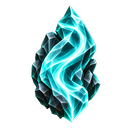
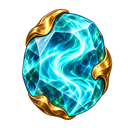
feat: 승인된 젬 이미지 13종 교체

diff --git a/design/gem_concepts/approved-20261017/build_runtime.py b/design/gem_concepts/approved-20261017/build_runtime.py
@@ -1,0 +1,41 @@
+#!/usr/bin/env python3
+"""Resize approved source art without cropping or changing the established gem IDs."""
+from pathlib import Path
+import argparse
+import hashlib
+import json
+from PIL import Image
+
+HERE = Path(__file__).resolve().parent
+ROOT = HERE.parents[2]
+OUTPUT = ROOT / 'assets/images/gems/simplified'
+
+def main():
+    parser = argparse.ArgumentParser()
+    parser.add_argument('--check', action='store_true', help='Compare generated pixels without writing files')
+    args = parser.parse_args()
+    records = []
+    for source in sorted((HERE / 'source').glob('*.png')):
+        image = Image.open(source)
+        assert image.mode == 'RGBA', source
+        assert image.getchannel('A').getextrema() == (0, 255), source
+        target = OUTPUT / source.name
+        assert target.is_file(), f'Unknown runtime gem: {source.stem}'
+        small = image.resize((128, 128), Image.Resampling.LANCZOS)
+        if args.check:
+            current = Image.open(target)
+            assert current.mode == 'RGBA' and current.size == (128, 128), target
+            assert current.tobytes() == small.tobytes(), f'Stale runtime art: {target}'
+        else:
+            small.save(target, optimize=True)
+        records.append({'id': source.stem, 'source': str(source.relative_to(ROOT)),
+                        'source_sha256': hashlib.sha256(source.read_bytes()).hexdigest(),
+                        'runtime': str(target.relative_to(ROOT)),
+                        'runtime_sha256': hashlib.sha256(target.read_bytes()).hexdigest(),
+                        'runtime_size': [128, 128]})
+    if not args.check:
+        (HERE / 'manifest.json').write_text(json.dumps({'resize': 'Pillow LANCZOS; full canvas; no crop', 'gems': records}, indent=2) + '\n')
+    print(f'PASS: {len(records)} approved gem sources match 128px runtime images')
+
+if __name__ == '__main__':
+    main()

diff --git a/docs/design_decisions/combat_ui.md b/docs/design_decisions/combat_ui.md
@@ -34,7 +34,7 @@
 | 전투 젬 보관함·일반 장착 | 보관함은 공용 젬 원본과 수량·이름·효과를 분리해 표시한다. 일반 장착의 초기 열린 소켓은 1개, 기본 최대는 3개이며 열린 1개와 잠긴 2개를 연결한다. 연구 수용량 밖의 소켓은 숨기고 최대 6개를 가로 한 줄로 지원한다. 잠긴 소켓 아래에는 실제 가격 태그를 미리 표시한다. 선택하면 해당 소켓 직하의 가격 태그가 가격·청록 해금 버튼을 함께 담은 일체형 금속 명패로 이어진다(해금 개선 시안 2번). 해금 명패는 전용 금속 이미지로 승인 시안의 두꺼운 베벨·사선 모서리·상하 면 비율을 보존하고 보유 젬 목록과의 여백을 좁게 유지한다. 기본 선택·해금은 같은 높이를 유지하며 긴 장착 설명만 필요한 최소 높이로 확장한다. 포탑 젬 장착 화면의 보유 젬 목록은 약 48px 정사각형 칸을 가로로 나열하고 부족한 칸은 빈 프레임으로 오른쪽 끝까지 채운다. 화면 폭에 맞춰 칸 수와 크기를 조절하며 젬 이미지는 34px로 유지한다. 별도 젬 보관함의 빈 상태는 변경하지 않는다. 개수 변화·골드 잔액 변화·해금 완료 문구와 별도 추가 버튼·`+`는 표시하지 않는다. 구매는 기존 가격·레벨·순차 조건을 따르며 성공 시 새로 열린 소켓을 선택한다. 보상 획득 중 교체 모달은 별도 흐름이다. | [승인 시안·최신 기준](../../design/combat_ui_concepts/2026-09-22/gem-ui-final/README.md) |
 | 포탑의 보유 젬 목록 | A안의 한 줄 인벤토리, 최소 패딩의 묶음, 이름·수량 유지. 가로 스크롤은 가능하되 스크롤바는 숨긴다. 전역 젬 메뉴와 혼동하지 않는다. | [실제 적용 화면](../../design/gem_inventory_concepts/implemented-a-live.png) |
 | 젬 소켓 | 금속·룬 소켓과 연결부 에셋 사용. 실제 해금 개수·비용은 게임 데이터 기준. 직관적인 소켓 아래 ‘홈 1·홈 2’ 중복 설명은 되살리지 않는다. | [에셋 기록](../../design/gem_sockets/README.md) |
-| 젬 아이콘 | 기능마다 다른 원석 형태·재질·색을 가진 투명 PNG 사용. 경량화기는 결정 탄환 묶음, 물리 피해는 너클 형태의 밝은 암석, 중화기 증폭은 굵고 뭉툭한 주황색 기둥 네 개가 엇물린 원석을 따른다. 현재는 형태·색·입체 광택을 유지하며 작은 균열과 파편을 큰 면으로 정리한 단순화 버전을 사용한다. 보상·인벤토리·소켓은 동일한 공용 에셋을 사용한다. | [현재 적용본·제작 원본·보존본 대응](../../design/gem_concepts/README.md) |
+| 젬 아이콘 | 기능마다 다른 형태·색의 보석과 절제된 금속 장식을 가진 투명 PNG를 사용한다. 2026-10-17 승인 개편본은 큰 결정 면과 입체 광택을 보존하며 128×128로 적용한다. 중화기는 짧고 두꺼운 주황색 포탄형 보석, 위력 증폭은 가늘고 긴 주황 다이아몬드, 연쇄는 검은 원석 바탕 없는 보라 S형 결정을 따른다. 개별 채택 원본과 매핑은 젬 이미지 기준에서 관리한다. 보상·인벤토리·소켓은 동일한 공용 에셋을 사용한다. | [현재 적용본·제작 원본·보존본 대응](../../design/gem_concepts/README.md) |
 | 보상 젬 장착·교체 | 승인 3번 수정 시안의 남청록 금속 모달을 따른다. 포탑 이름·레벨·장착/최대 개수와 새 젬 이름·효과를 표시하고, 기존 젬은 원본 소켓·연결부와 각 이름·효과로 비교한다. 열린 소켓만 최대 6개까지 3개씩 두 줄로 배치하며 미해금 소켓은 잠금 표시도 만들지 않는다. 슬롯 추가는 별도 선택 명패에 비용·보유 골드·기존 젬 유지 안내를 표시한다. 명패와 확정 버튼의 골드는 `G` 문자 대신 공용 골드 아이콘과 수치로 표시한다. 선택 명패 바로 아래에 확정 버튼을 두고, 별도 설명칸·반복 새 젬/잔여 골드 요약·청록 연결선은 만들지 않는다. 같은 포탑과 젬의 선택 전환에서 모달과 하단 버튼 위치를 유지한다. 소켓·추가 선택은 미리보기이며 별도 확정으로 처리한다. 슬롯 추가는 실제 비용·레벨·최대 개수 조건을 따르고 구매와 장착을 원자 처리하여 기존 젬을 유지한다. 교체된 젬은 보관함으로 반환하며, 닫기·포탑 다시 선택은 보상을 소비하지 않는다. 기존 보상·구매 카드 디자인은 유지한다. | [승인 3번 수정 시안](../../design/combat_ui_concepts/2026-10-01/gem-replacement/03-socket-anchored-v3.png), [기존 동작·검증](../../design/combat_ui_concepts/2026-09-22/modal-components/native/README.md#젬-교체-ux) |
 | 젬 보상 리롤 | 일반 웨이브 보상창의 우측 상단에 32px 순환 화살표 조작과 최소 44px 터치 영역을 둔다. 배지는 이번 도전의 남은 총 횟수, 아래는 무료 또는 승인한 민트·청록 젬 리셋권 아이콘 ×1을 표시한다. 도전 전체에서 무료 1회 후 리셋권으로 최대 2회 사용하며 파편 구매 선택창에는 표시하지 않는다. 기존 카드·파편·보관·장착·등장 연출을 유지한다. 리롤 확정·저장 성공 후 세 카드만 중앙 세로축 기준으로 약 0.36초 한 번(180도) 뒤집는다. 절제된 원근과 얇은 측면으로 회전을 표현하고, 90도 측면을 지나는 중간 지점에서 새 젬·문구로 교체해 곧바로 새 앞면을 펼친다. 별도 룬 뒷면 단계나 추가 회전은 없다. 카드 아래 안내·추가 설명의 최대 공간을 미리 확보해 클릭 전·처리 중·완료 후 카드 220px 높이와 행·모달·제목·리롤·파편 행동 위치를 고정한다. 연출 중 모든 선택을 잠근다. 최초 0.82초 등장과 겹쳐 재생하지 않고, 실패·결과 미확정은 이전 후보를 유지하며 결과 확인·저장 실패는 재시도를 제공한다. 상점·광고·다이아 가격 UI를 추가하지 않는다. | [승인 시안·아트·Godot 검증](../../design/gem_reroll/README.md) |
 | 젬 보상 등장 | 5배수 웨이브 클리어 보상은 승인 3번 ‘중앙에서 펼치기’를 따른다. 모달 프레임은 중앙을 기준으로 90% 크기·14px 아래에서 약 0.40초 동안 원래 크기·위치로 정착한다. 기존 카드가 중앙의 작은 묶음에서 좌우의 원래 자리로 펼쳐지고, 짧은 청록 룬 고리와 후행 파편·획득 젬 표시를 사용한다. 약 0.82초의 실제 시간으로 재생하며 최종 카드 외형·배치·정보와 선택·장착·교체 계약을 유지한다. 같은 보상의 화면 갱신·선택 취소와 구매 화면에서는 재생을 반복하지 않는다. 등장 중 선택 입력은 막고 종료·취소 시 복구한다. | [승인 3번 GIF](../../design/gem_reward_entrance_concepts/2026-10-04/03-center-spread.gif), [시안·적용 기록](../../design/gem_reward_entrance_concepts/2026-10-04/README.md) |

diff --git a/design/gem_concepts/README.md b/design/gem_concepts/README.md
@@ -1,11 +1,12 @@
 # 현재 젬 이미지 기준
 
-현재 적용되는 14종은 **형태와 입체 광택을 유지하면서 작은 균열·파편을 큰 면으로 정리한 단순화 버전**이다. 보존용 초기 원본을 새 시안의 디테일 기준으로 사용하지 않는다.
+2026-10-17 승인된 보석·금속 장식 개편본을 기존 공용 경로에 적용한다. 기존 14종 가운데 13종을 교체했고, `armorPiercing`(장갑 관통)은 기존 이미지를 유지한다. 별도로 승인한 마젠타 관통 젬은 향후 신규 젬이며 이번 교체 대상에 포함하지 않는다. 보존용 초기 원본을 새 시안의 디테일 기준으로 사용하지 않는다.
 
 | 용도 | 경로 |
 | --- | --- |
 | 실제 게임 적용본 | [`assets/images/gems/simplified/`](../../assets/images/gems/simplified/) — 128×128 RGBA PNG 14종 |
-| 현재 제작 원본·재생성 방법 | [단순화 작업 폴더](../gem_simplification/2026-10-09/README.md), [고해상도 원본](../gem_simplification/2026-10-09/source/) |
+| 현재 제작 원본·재생성 방법 | [승인 개편 원본](approved-20261017/source/), [128px 재생성](approved-20261017/build_runtime.py), [채택 매핑·해시](approved-20261017/manifest.json) |
+| 이전 단순화 원본 | [2026-10-09 작업](../gem_simplification/2026-10-09/README.md) — 기존 기록과 원본 보존 |
 | 관통 젬 시안 | [piercing-p3](piercing-20261015/piercing-p3.png)(금 테두리 보석 + 화살), [piercing-i](piercing-20261015/piercing-i.png)(크리스탈이 돌 고리를 꿰뚫음), [프롬프트](piercing-20261015/prompt.txt) — Codex 생성, 게임 미적용 |
 | 젬 개편 시안 | [물리 피해 증폭 Y1](revamp-20261015/physical-y1.png), [설계 규칙](revamp-20261015/README.md) — 게임 미적용 |
 | 재사용 가능한 미채택 형태 후보 | [중화기 A–G](heavy-weapon-alternatives/README.md), [H–P](heavy-weapon-round3/README.md), [보조 젬 참고 후보](heavy-weapon-poe/README.md), [기둥 결합 후보](heavy-weapon-columns/README.md) — 현행 적용·디테일 기준과 구분 |
@@ -16,7 +17,7 @@
 
 [`app_ui_source()`](../../scripts/prepare_godot_project.py)는 기존 `gems/{id}.png` 식별자를 실제 `simplified/` 파일에 연결한다. 게임 내 `res://assets/app/gems/{id}.png` 경로와 보상·인벤토리·소켓 공용 에셋 사용은 유지한다.
 
-보존용 최상위 PNG 14개는 `design/legacy/assets/images/gems/`로 이동했다. 현재 적용본과 이를 만드는 제작 원본의 픽셀은 변경하지 않았다. 최초 젬뿐 아니라 대체된 중간 시안도 보존 전용이면 레거시에 둔다. 미채택이라도 다른 젬에 활용할 수 있는 독립적인 형태 후보는 활성 작업 경로에 유지한다.
+보존용 최상위 PNG 14개는 `design/legacy/assets/images/gems/`로 이동했다. 기존 원본과 과거 채택 기록은 그대로 보존한다. 최초 젬뿐 아니라 대체된 중간 시안도 보존 전용이면 레거시에 둔다. 미채택이라도 다른 젬에 활용할 수 있는 독립적인 형태 후보는 활성 작업 경로에 유지한다.
 
 ## 재사용 도구
 
